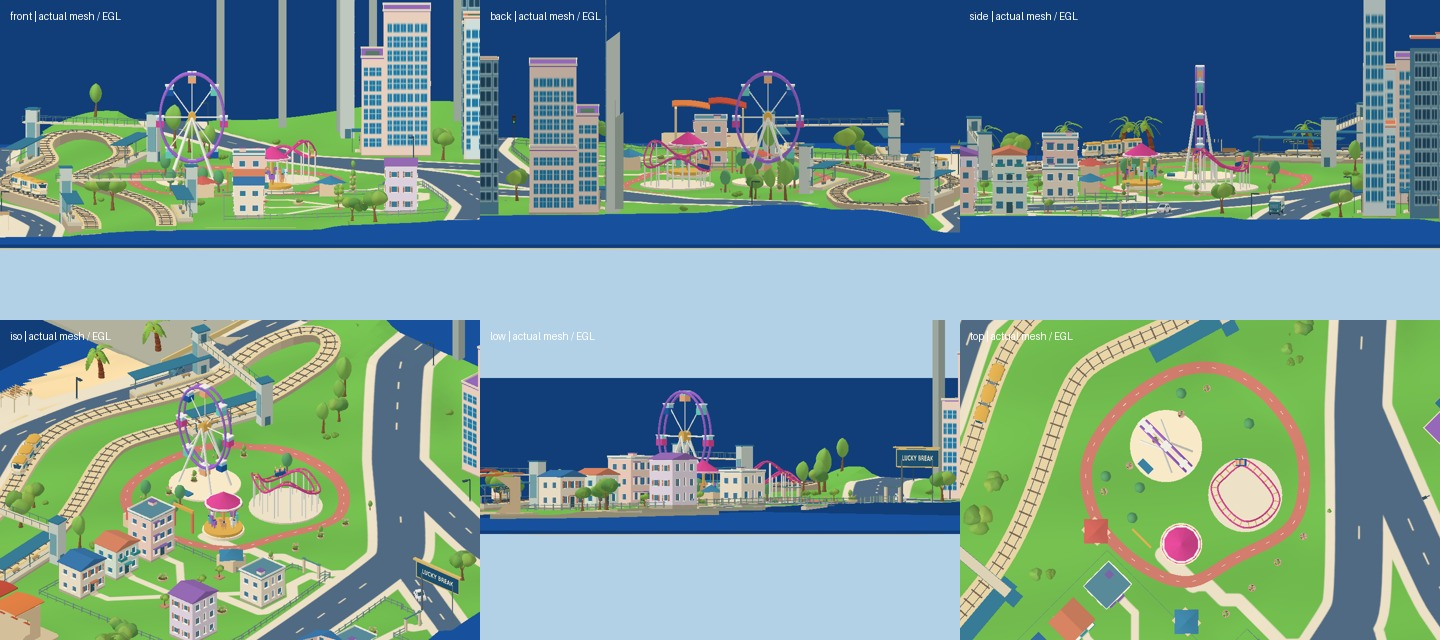
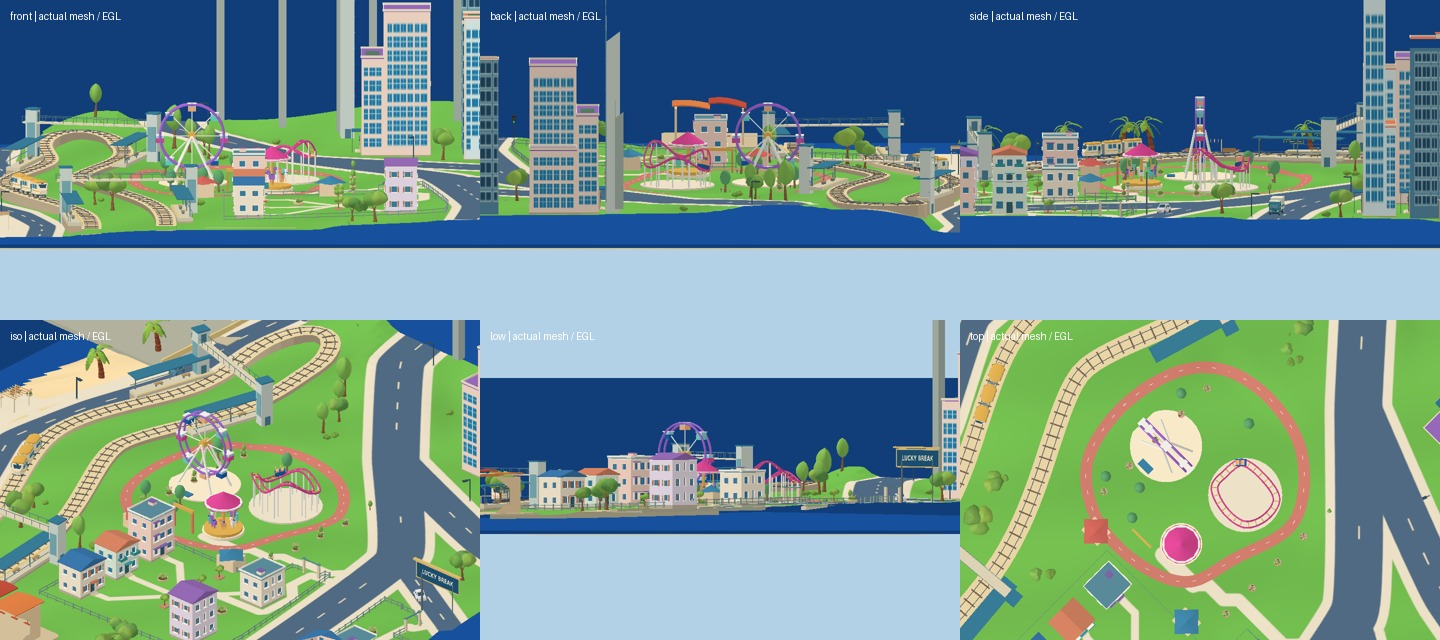
Keep ferris wheel circular in park and preview

diff --git a/src/assetTools.ts b/src/assetTools.ts
@@ -122,7 +122,7 @@ export function initAssetTools(){
  function isolate(){
   if(!isolated){savedCamera=camera.position.clone();savedTarget=controls.target.clone();savedScene.fog=scene.fog;savedScene.background=scene.background;savedScene.sky=sky.visible;}
   controls.dispatchEvent({type:'start'});updateFocus(2);isolated=true;world.userData.assetView=true;enterAssetDaylight();world.visible=false;sky.visible=false;scene.fog=null;scene.background=new THREE.Color(0xdce9ed);labelRenderer.domElement.style.display='none';document.body.dataset.assetView='true';controls.minDistance=.4;controls.maxDistance=1000;camera.near=.02;camera.updateProjectionMatrix();
-  disposePreview();preview=new THREE.Group();preview.name='isolated-asset';scene.add(preview);copy=selected().source.clone(true);copy.position.set(0,0,0);if(selected().placement)copy.rotation.set(0,0,0);
+  disposePreview();preview=new THREE.Group();preview.name='isolated-asset';scene.add(preview);copy=selected().source.clone(true);copy.position.set(0,0,0);if(copy.name==='park-ferris-wheel')copy.scale.y=copy.scale.x;if(selected().placement)copy.rotation.set(0,0,0);
   let triangles=0,meshes=0;copy.traverse(o=>{if(o instanceof THREE.Mesh){meshes++;triangles+=(o.geometry.index?.count??o.geometry.attributes.position.count)/3;o.material=Array.isArray(o.material)?o.material.map(m=>m.clone()):o.material.clone();o.userData.previewMaterial=true;for(const m of Array.isArray(o.material)?o.material:[o.material])if(m instanceof THREE.ShaderMaterial&&m.userData.lightingRole==='volumetric-cloud')prepareCloudMaterial(m);for(const m of Array.isArray(o.material)?o.material:[o.material])if(m instanceof THREE.MeshToonMaterial)m.emissiveIntensity=0;for(const m of Array.isArray(o.material)?o.material:[o.material])if('wireframe' in m)m.wireframe=el<HTMLInputElement>('wire').checked;}});preview.add(copy);copy.updateMatrixWorld(true);
   const b=new THREE.Box3().setFromObject(copy,true),size=b.getSize(new THREE.Vector3()),span=Math.max(size.x,size.z,2)*1.4;
   const center=b.getCenter(new THREE.Vector3()),lightDistance=span*4+40;sun.position.copy(new THREE.Vector3().fromArray(DAY_LIGHTING.sun.position).normalize().multiplyScalar(lightDistance).add(center));sun.target.position.copy(center);sun.target.updateMatrixWorld();shadowCamera.left=shadowCamera.bottom=-span;shadowCamera.right=shadowCamera.top=span;shadowCamera.near=1;shadowCamera.far=lightDistance+span*3;sun.shadow.bias=-.0003;sun.shadow.normalBias=.04;shadowCamera.updateProjectionMatrix();

diff --git a/tests/architecture.test.ts b/tests/architecture.test.ts
@@ -1090,6 +1090,7 @@ test('park rides and perimeter retain separate clearances from each other, roads
  assert.ok(centers.wheel.distanceTo(centers.coaster)>14);assert.ok(centers.carousel.distanceTo(centers.coaster)>14);
  const {railRoutes}=await import('../src/transport');const parkRoot=world.getObjectByName('special-park')!;parkRoot.updateMatrixWorld(true);
  for(const name of ['park-ferris-wheel','park-roller-coaster','park-carousel']){const b=new THREE.Box3().setFromObject(parkRoot.getObjectByName(name)!);b.expandByScalar(1.5);for(const {curve} of railRoutes)for(const p of curve.getSpacedPoints(700))if(p.y<b.max.y+.2&&p.y+3>b.min.y)assert.ok(p.x<b.min.x||p.x>b.max.x||p.z<b.min.z||p.z>b.max.z,'rail avoids '+name);}
+ const wheelScale=parkRoot.getObjectByName('park-ferris-wheel')!.getWorldScale(new THREE.Vector3());assert.ok(Math.abs(wheelScale.x-wheelScale.y)<1e-6,'ferris wheel remains circular under park scaling');
  const rides=['park-ferris-wheel','park-roller-coaster','park-carousel'].map(name=>new THREE.Box3().setFromObject(parkRoot.getObjectByName(name)!));for(let i=0;i<rides.length;i++)for(let j=i+1;j<rides.length;j++)assert.equal(rides[i].intersectsBox(rides[j]),false,'ride assemblies clear');
  for(const p of parkRoot.getObjectByName('park-landscaping')!.children){const b=new THREE.Box3().setFromObject(p);for(const ride of rides)assert.equal(ride.intersectsBox(b),false,'park planting avoids moving rides');}const gate=new THREE.Box3().setFromObject(parkRoot.getObjectByName('park-entrance')!);for(const ride of rides)assert.equal(ride.intersectsBox(gate),false,'park entry avoids rides');
  for(const [x,z,radius] of [[-32,-101,1.1],[-31,-80,1.1],[-22,-78,1.1],[-25,-83,1.1],[-19,-106,1.1],[-20.3,-76.5,.2],[-15.7,-76.5,.2]] as const)for(let i=0;i<400;i++){const p=loop.getPointAt(i/400);assert.ok(Math.hypot(p.x-x,p.z-z)>PARK_LOOP_WIDTH/2+radius,'tree or entrance clears running loop');}

diff --git a/src/amusement.ts b/src/amusement.ts
@@ -19,7 +19,7 @@ const offset=(p:{x:number;z:number})=>({x:p.x/PARK_CENTER.scale,z:p.z/PARK_CENTE
 function rideRoot(cx:number,cz:number,p:{x:number;z:number},name:string){const g=new THREE.Group(),q=offset(p);g.name=name;g.position.set(cx+q.x,GROUND_Y,cz+q.z);world.add(g);return g;}
 
 function createWheel(cx:number,cz:number){
- const root=rideRoot(cx,cz,PARK_RIDES.wheel,'park-ferris-wheel');const R=5.2,hubY=7.8;
+ const root=rideRoot(cx,cz,PARK_RIDES.wheel,'park-ferris-wheel');root.scale.y=PARK_CENTER.scale/PARK_CENTER.verticalScale;const R=5.2,hubY=7.8;
  const platform=group(root,'wheel-platform');cylinder(platform,5.9,.24,cream,.12);box(platform,2.5,.18,1.3,blue,0,.33,4.7,'wheel-entry-platform');
  const support=group(root,'wheel-support');for(const side of [-1,1])for(const foot of [-1,1])tube(support,new THREE.Vector3(foot*3.6,.25,side*2.4),new THREE.Vector3(0,hubY,side*.8),.19,white,'wheel-leg');
  const rotor=group(root,'ferris-rotor');rotor.position.y=hubY;const cabins:THREE.Group[]=[];spinWheels.push({rotor,axis:'z',speed:.18,cabins});

diff --git a/docs/amusement-redesign.md b/docs/amusement-redesign.md
@@ -2,7 +2,7 @@
 
 原过山车的大环线穿过摩天轮和木马，本轮将三者拆为独立活动区：摩天轮中心 (-27,-92)，L07；过山车中心 (-10,-96)，M07；木马中心 (-12,-81)，M07。保留园区现有定位与 C 方案主色，按原地形、海岸双轨和中央公路限制扩展可用范围。园区拾取框跟随组合实际边界。
 
-- 摩天轮：平台、四腿支架、双环轮盘、辐条、轴心及八组吊舱；吊舱随轮盘旋转并保持垂直。
+- 摩天轮：平台、四腿支架、双环轮盘、辐条、轴心及八组吊舱；吊舱随轮盘旋转并保持垂直；抵消园区的非等比缩放，让轮盘保持正圆。
 - 过山车：独立封闭起伏线路、两条并行轨、轨枕、落在平台上的支柱，以及车架、车轮和双排座椅。小车根据轨道切线同步转向和俯仰。
 - 旋转木马：独立底座、顶棚、中心轴、旋转平台、八组坐骑、支杆和马鞍。
 - 外围跑道：宽约 2.2 米的连续不规则环线，围绕三个设施；白色虚线使用实例合批。入口、乔木和花卉避开跑道与设施，跑道按实际地表网格高度贴地。扩展范围纳入新建筑与随机绿化的避让，但不改变铁路附近地形。
